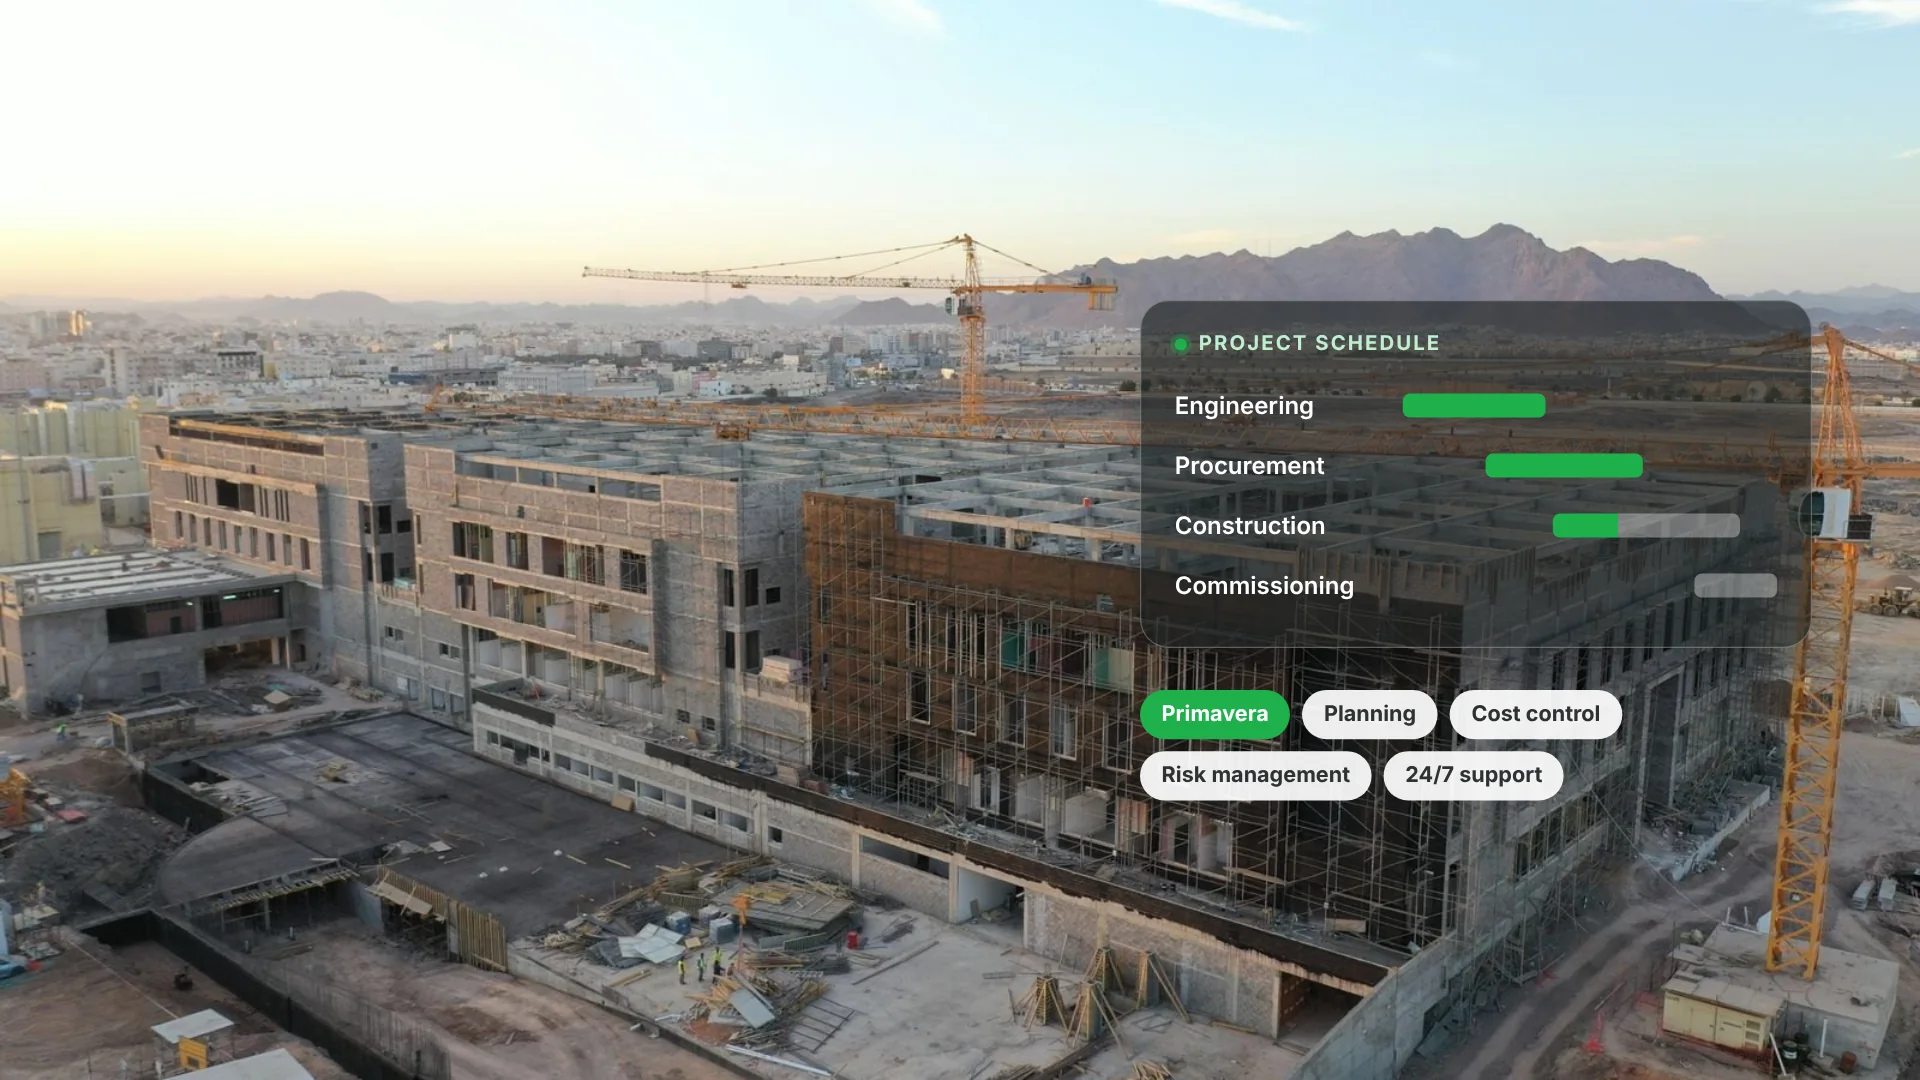
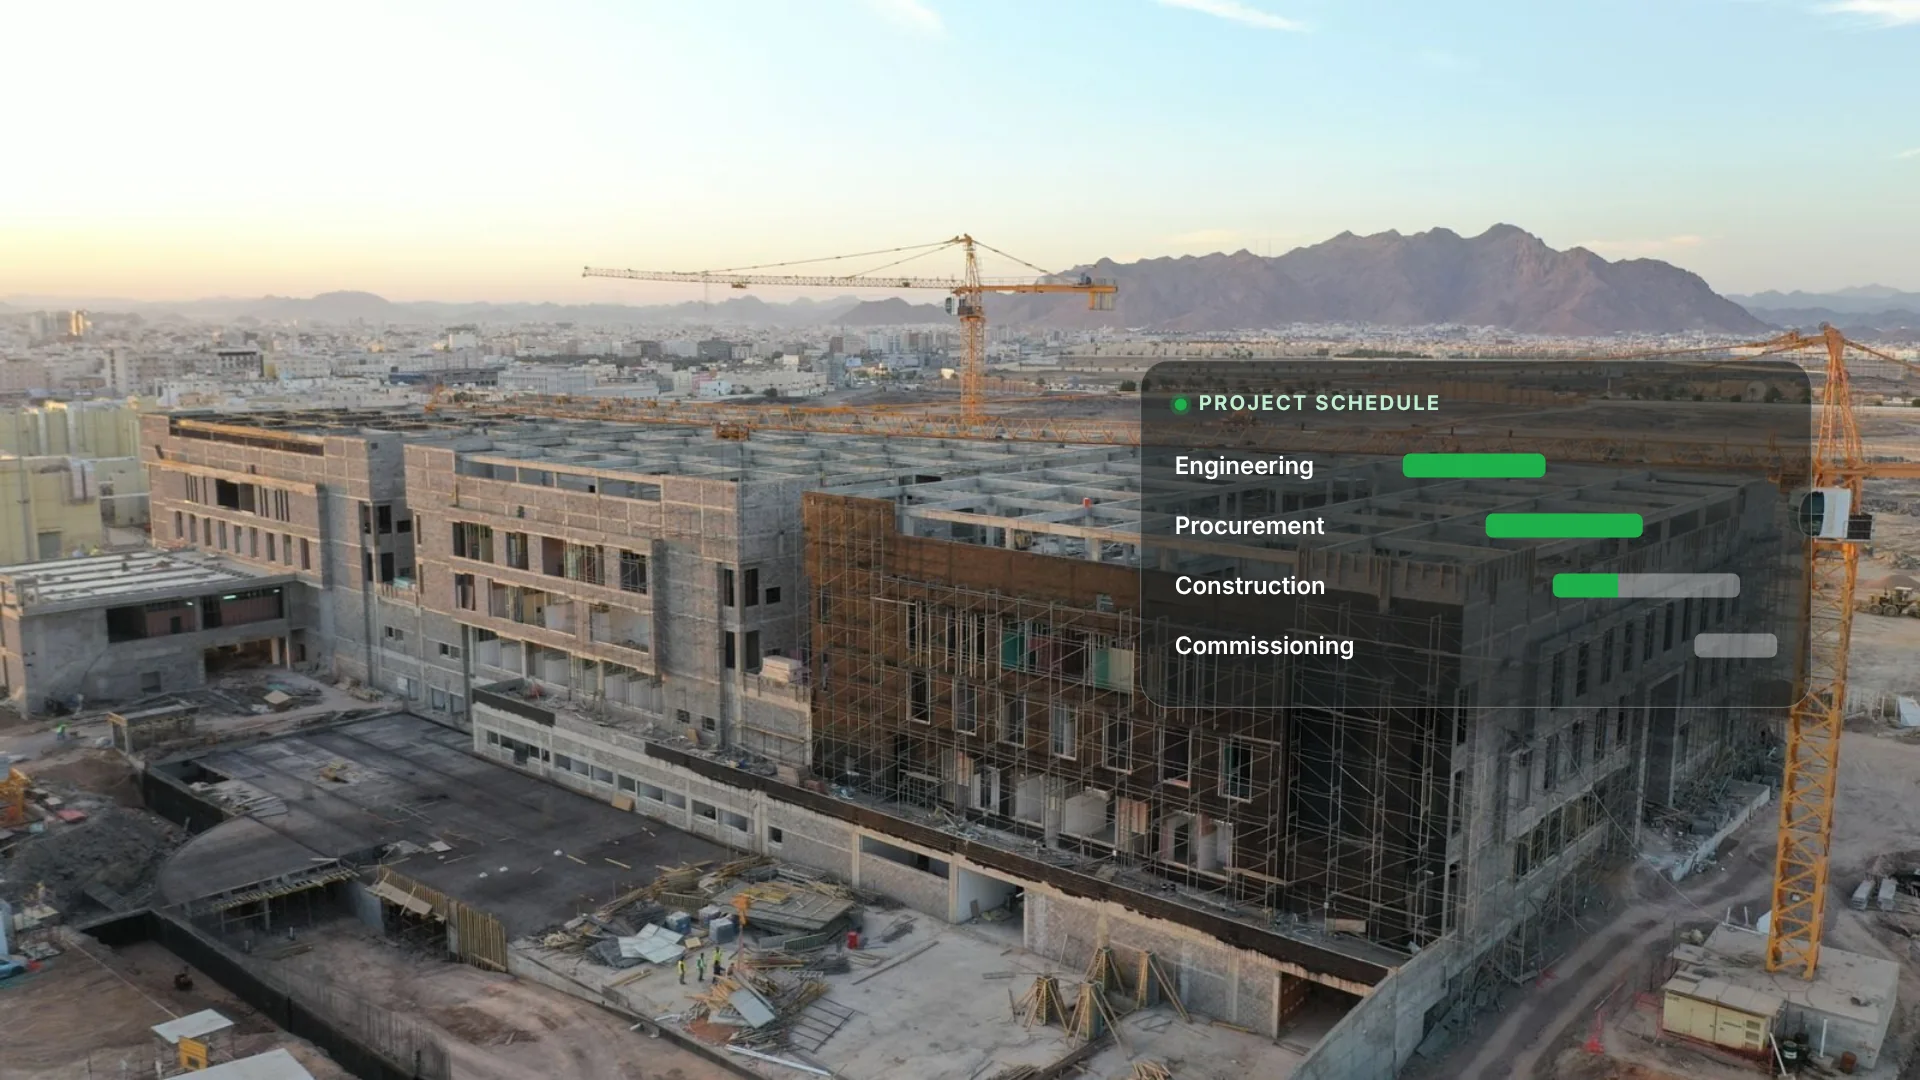
Home hero PM slide: remove service chips
Claude-Session: https://claude.ai/code/session_019gMymePghk3WRCpa2UPwxG

diff --git a/v3bf/index.html b/v3bf/index.html
@@ -39,7 +39,7 @@
       <img class="hero__slide" src="../assets/img/services/wp-hero.webp" srcset="../assets/img/services/wp-hero-800.webp 800w, ../assets/img/services/wp-hero.webp 1280w" sizes="100vw" width="1280" height="855" alt="Worker applying a waterproofing coating to a roof" data-label="Waterproofing &amp; Industrial Coating" loading="lazy" decoding="async">
       <img class="hero__slide" src="../assets/img/services/ws-refinery-night.webp" srcset="../assets/img/services/ws-refinery-night-800.webp 800w, ../assets/img/services/ws-refinery-night.webp 1200w" sizes="100vw" width="1200" height="801" alt="Refinery stacks lit up at dusk" data-label="Industry Transformation" loading="lazy" decoding="async">
       <img class="hero__slide" src="../assets/img/services/hr-field-team.webp" srcset="../assets/img/services/hr-field-team-800.webp 800w, ../assets/img/services/hr-field-team.webp 1200w" sizes="100vw" width="1200" height="587" alt="Two field engineers in safety gear reviewing a tablet at an industrial plant" data-label="Human Resource Management" loading="lazy" decoding="async">
-      <img class="hero__slide" src="../assets/img/services/pm-saudi-hero.webp" srcset="../assets/img/services/pm-saudi-site-800.webp 800w, ../assets/img/services/pm-saudi-hero.webp 1920w" sizes="(max-width: 760px) 260px, 100vw" width="1920" height="1080" alt="Construction project in Saudi Arabia with a project schedule overlay: Primavera, planning, cost control, risk management and 24/7 support" data-label="Project Management Solution" loading="lazy" decoding="async">
+      <img class="hero__slide" src="../assets/img/services/pm-saudi-hero.webp" srcset="../assets/img/services/pm-saudi-site-800.webp 800w, ../assets/img/services/pm-saudi-hero.webp 1920w" sizes="(max-width: 760px) 260px, 100vw" width="1920" height="1080" alt="Construction project in Saudi Arabia with a project schedule overlay" data-label="Project Management Solution" loading="lazy" decoding="async">
       <div class="hero__overlay"></div>
       <div class="container hero__content">
         <div class="hero__text">
